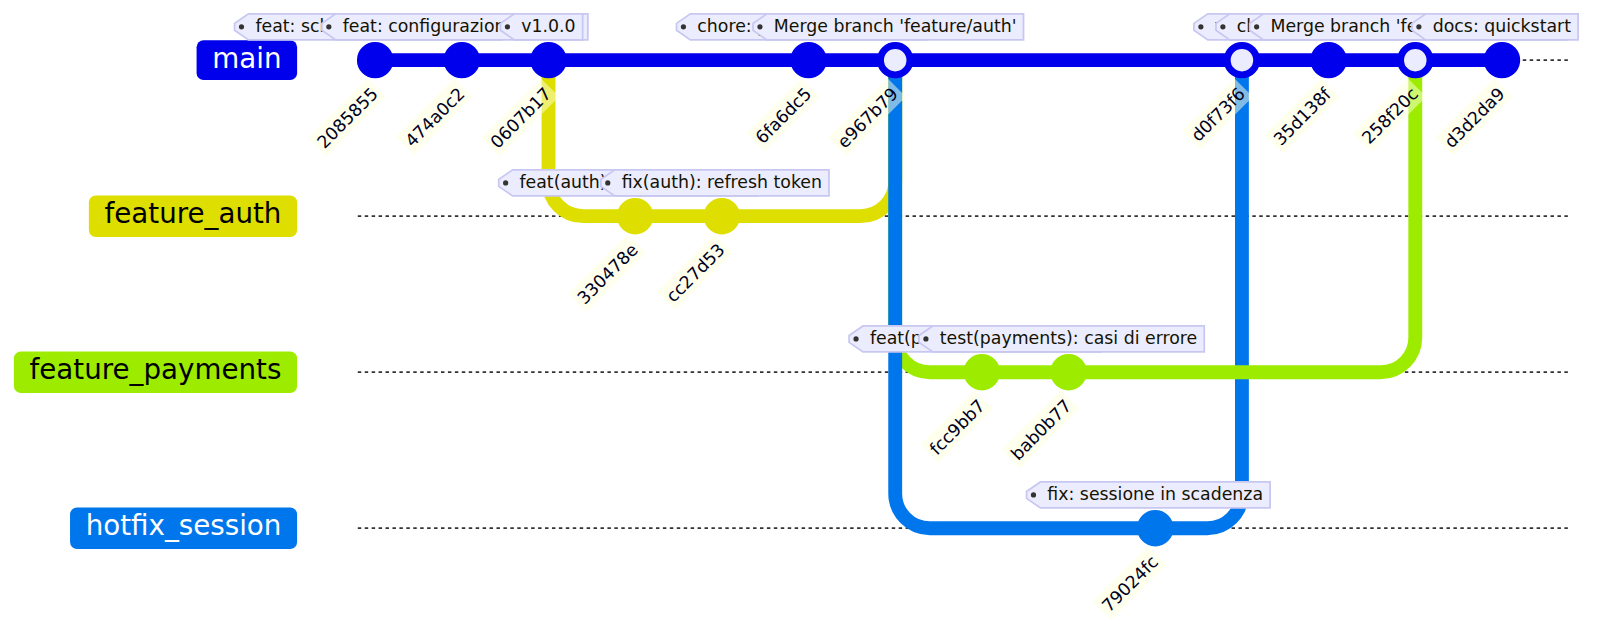
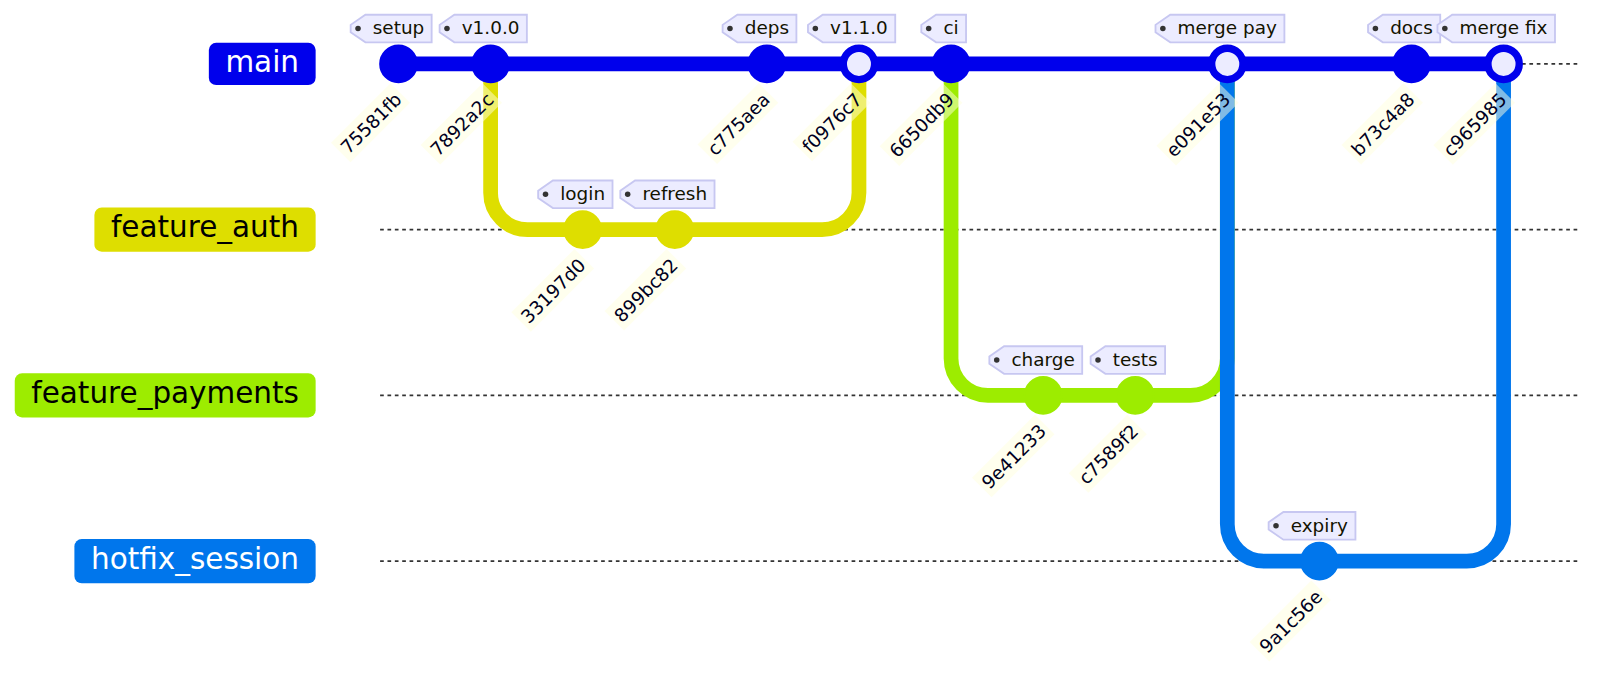
fix(gitgraph): etichette troncate a confine di parola, limite configurabile (#TASK-P0-03)
- label(): troncatura su confine di parola con ellissi, limite parametrizzabile
  (`--label-len`, default 32, 0 = soggetto intero).
- tag_of(): il primo tag non viene mai spezzato da un join; con più tag si
  annota `+N`. Il subject di fallback è troncato dal solo tag_of.
- selftest: caso multi-tag (t1 +2), troncatura a confine di parola, --label-len
  0 e 12, nessuna etichetta oltre il limite.
- example.png rigenerato (1600 px, verificato anche a 800 px): etichette intere,
  box non più sovrapposti.

Nota: il PNG resta vincolato allo spacing fisso di mermaid (~40 unità per
commit), quindi va rigenerato con subject brevi: oltre ~8 caratteri i box di
commit adiacenti tornano a sovrapporsi.

diff --git a/skills/gitgraph/scripts/gitgraph.py b/skills/gitgraph/scripts/gitgraph.py
@@ -27,9 +27,13 @@ def slug(branch):
     return re.sub(r"[^A-Za-z0-9_-]", "_", branch) or "branch"
 
 
-def label(text):
-    text = " ".join(text.replace('"', "'").split())
-    return text[:MAX_SUBJECT] + "..." if len(text) > MAX_SUBJECT else text
+def label(text, limit=MAX_SUBJECT):
+    """Soggetto su una riga, troncato a confine di parola con ellissi (limit <= 0: intero)."""
+    text = " ".join(str(text).replace('"', "'").split())
+    if limit <= 0 or len(text) <= limit:
+        return text
+    cut = text[:limit - 1].rsplit(" ", 1)[0] or text[:limit - 1]
+    return cut + "…"
 
 
 def branch_tips(repo):
@@ -102,6 +106,9 @@ def main():
                     help="avvolge l'output in un fence ```mermaid (file .md per la preview)")
     ap.add_argument("--linear", action="store_true",
                     help="fila indiana: un solo ramo, nessuna ricostruzione dei merge")
+    ap.add_argument("--label-len", type=int, default=MAX_SUBJECT,
+                    help="caratteri massimi per etichetta, troncata a confine di parola "
+                         "(default 32, 0 = soggetto intero)")
     a = ap.parse_args()
 
     if git(a.repo, "rev-parse", "--is-inside-work-tree").strip() != "true":
@@ -133,10 +140,14 @@ def main():
         out.append("    " + line)
 
     def tag_of(h, fallback):
-        return label(", ".join(tags[h])) if h in tags else fallback
+        """Primo tag, mai spezzato: i tag in piu' diventano "+N"; subject troncato se non c'e' tag."""
+        if h not in tags:
+            return label(fallback, a.label_len)
+        head = label(tags[h][0], a.label_len)
+        return f"{head} +{len(tags[h]) - 1}" if len(tags[h]) > 1 else head
 
     def commit_line(h):
-        emit(f'commit id: "{short[h]}" tag: "{tag_of(h, label(commits[h][1]))}"')
+        emit(f'commit id: "{short[h]}" tag: "{tag_of(h, commits[h][1])}"')
 
     def header(branch_name):
         out.append('%%{init: {"gitGraph": {"mainBranchName": "'
@@ -221,7 +232,7 @@ def main():
                 side = owner.get(par[1]) or next(
                     (b for b, tip in heads.items() if tip == par[1]), None)
                 if side and side != branch and heads.get(side) == par[1]:
-                    emit(f'merge {uname(side)} id: "{short[h]}" tag: "{tag_of(h, label(commits[h][1]))}"')
+                    emit(f'merge {uname(side)} id: "{short[h]}" tag: "{tag_of(h, commits[h][1])}"')
                     return
             commit_line(h)
 

diff --git a/README.md b/README.md
@@ -7,8 +7,9 @@ rendering PNG locale.
 ![Esempio: tre rami (feature/auth, feature/payments, hotfix/session), merge ricostruiti e tag v1.0.0 / v1.1.0](skills/gitgraph/assets/example.png)
 
 *Esempio generato da questo pacchetto: `--png` su un repo con tre rami e due merge. I merge portano
-l'id del commit di merge, i tag git compaiono come `tag:`, i subject più lunghi di 32 caratteri sono
-troncati. Riproducibile con `python3 skills/gitgraph/scripts/gitgraph.py <repo> -n 25 --png out.png`.*
+l'id del commit di merge, i tag git compaiono come `tag:` (se il commit ne ha più di uno: il primo
+più `+N`), i subject sono troncati a `--label-len` caratteri (default 32) a confine di parola con
+`…`. Riproducibile con `python3 skills/gitgraph/scripts/gitgraph.py <repo> -n 25 --png out.png`.*
 
 Output possibili:
 
@@ -86,6 +87,7 @@ Cosa fa: costruisce un repo usa-e-getta (ramo `feature/x`, un merge `--no-ff`, u
 - prima riga = direttiva `%%{init:...}` e presenza di `gitGraph`;
 - `branch feature_x` e `merge feature_x id:` presenti (slash sanificato, merge ricostruito);
 - `tag: "v1"` riportato dal tag git reale;
+- etichette: troncatura a confine di parola con `…`, `--label-len` rispettato, con più tag compare il primo e `+N` (mai un tag spezzato);
 - numero di `commit id:` esatto (5);
 - con `--linear` l'output resta Mermaid valido: prima riga `%%{init:...}`, `gitGraph` presente, almeno un `commit id:`, anche con HEAD non risolto (ref puntato ma mai committato);
 - `--md` apre e chiude il fence, l'output raw **non** contiene fence;
@@ -112,6 +114,7 @@ python3 skills/gitgraph/scripts/gitgraph.py ~/un/repo -n 15 --png /tmp/grafo.png
 | `--md` | avvolge l'output nel fence ```` ```mermaid ```` |
 | `--png FILE` | renderizza il PNG con `mmdc` (largo 1600 px, sfondo bianco); niente stdout |
 | `--linear` | fila indiana, un solo ramo: ripiego se la ricostruzione esce sbagliata |
+| `--label-len N` | caratteri massimi per etichetta, troncata a confine di parola con `…` (default 32; `0` = soggetto intero) |
 
 `stdout` è Mermaid puro; i warning vanno su `stderr`.
 

diff --git a/skills/gitgraph/SKILL.md b/skills/gitgraph/SKILL.md
@@ -12,7 +12,7 @@ Produce il codice Mermaid e, con `--png`, il rendering locale. Tre destinazioni:
 ## Uso
 
 ```bash
-python3 {baseDir}/scripts/gitgraph.py [REPO] [-n 30] [-o FILE] [--md] [--png FILE] [--linear]
+python3 {baseDir}/scripts/gitgraph.py [REPO] [-n 30] [-o FILE] [--md] [--png FILE] [--linear] [--label-len N]
 ```
 
 | Opzione | Significato |
@@ -23,6 +23,7 @@ python3 {baseDir}/scripts/gitgraph.py [REPO] [-n 30] [-o FILE] [--md] [--png FIL
 | `--md` | avvolge l'output nel fence ```` ```mermaid ````: `-o grafo.md` è pronto per la preview |
 | `--png FILE` | renderizza il PNG con `mmdc` (largo 1600px, sfondo bianco); niente stdout |
 | `--linear` | fila indiana, un solo ramo: ripiego se la ricostruzione esce sbagliata |
+| `--label-len N` | caratteri massimi per etichetta, troncata a confine di parola con `…` (default 32; `0` = soggetto intero, 10-12 per grafi stretti) |
 
 stdout è Mermaid puro; con `--md` è un blocco fences; con `--png` lo stdout resta vuoto. Warning e diagnostica vanno su stderr. `--png` richiede `mmdc` e un Chromium: installazione e diagnosi in `references/png-setup.md`.
 
@@ -37,7 +38,7 @@ stdout è Mermaid puro; con `--md` è un blocco fences; con `--png` lo stdout re
 
 - Una lane per ramo locale o remoto distinto, aperta al fork point reale (first-parent), chiusa con `merge <ramo> id: "<hash>"`.
 - Catene laterali senza ref (tipiche dei merge PR): lane sintetica `merge_<hash>`.
-- `tag:` = tag git reale se il commit ne ha uno, altrimenti subject troncato a 32 caratteri.
+- `tag:` = tag git reale se il commit ne ha uno (con più tag: il primo più `+N`, mai un tag spezzato), altrimenti subject troncato a `--label-len` caratteri (default 32) a confine di parola con `…`.
 - Nomi ramo sanificati per Mermaid: `feature/x` → `feature_x`.
 
 ## Limiti
